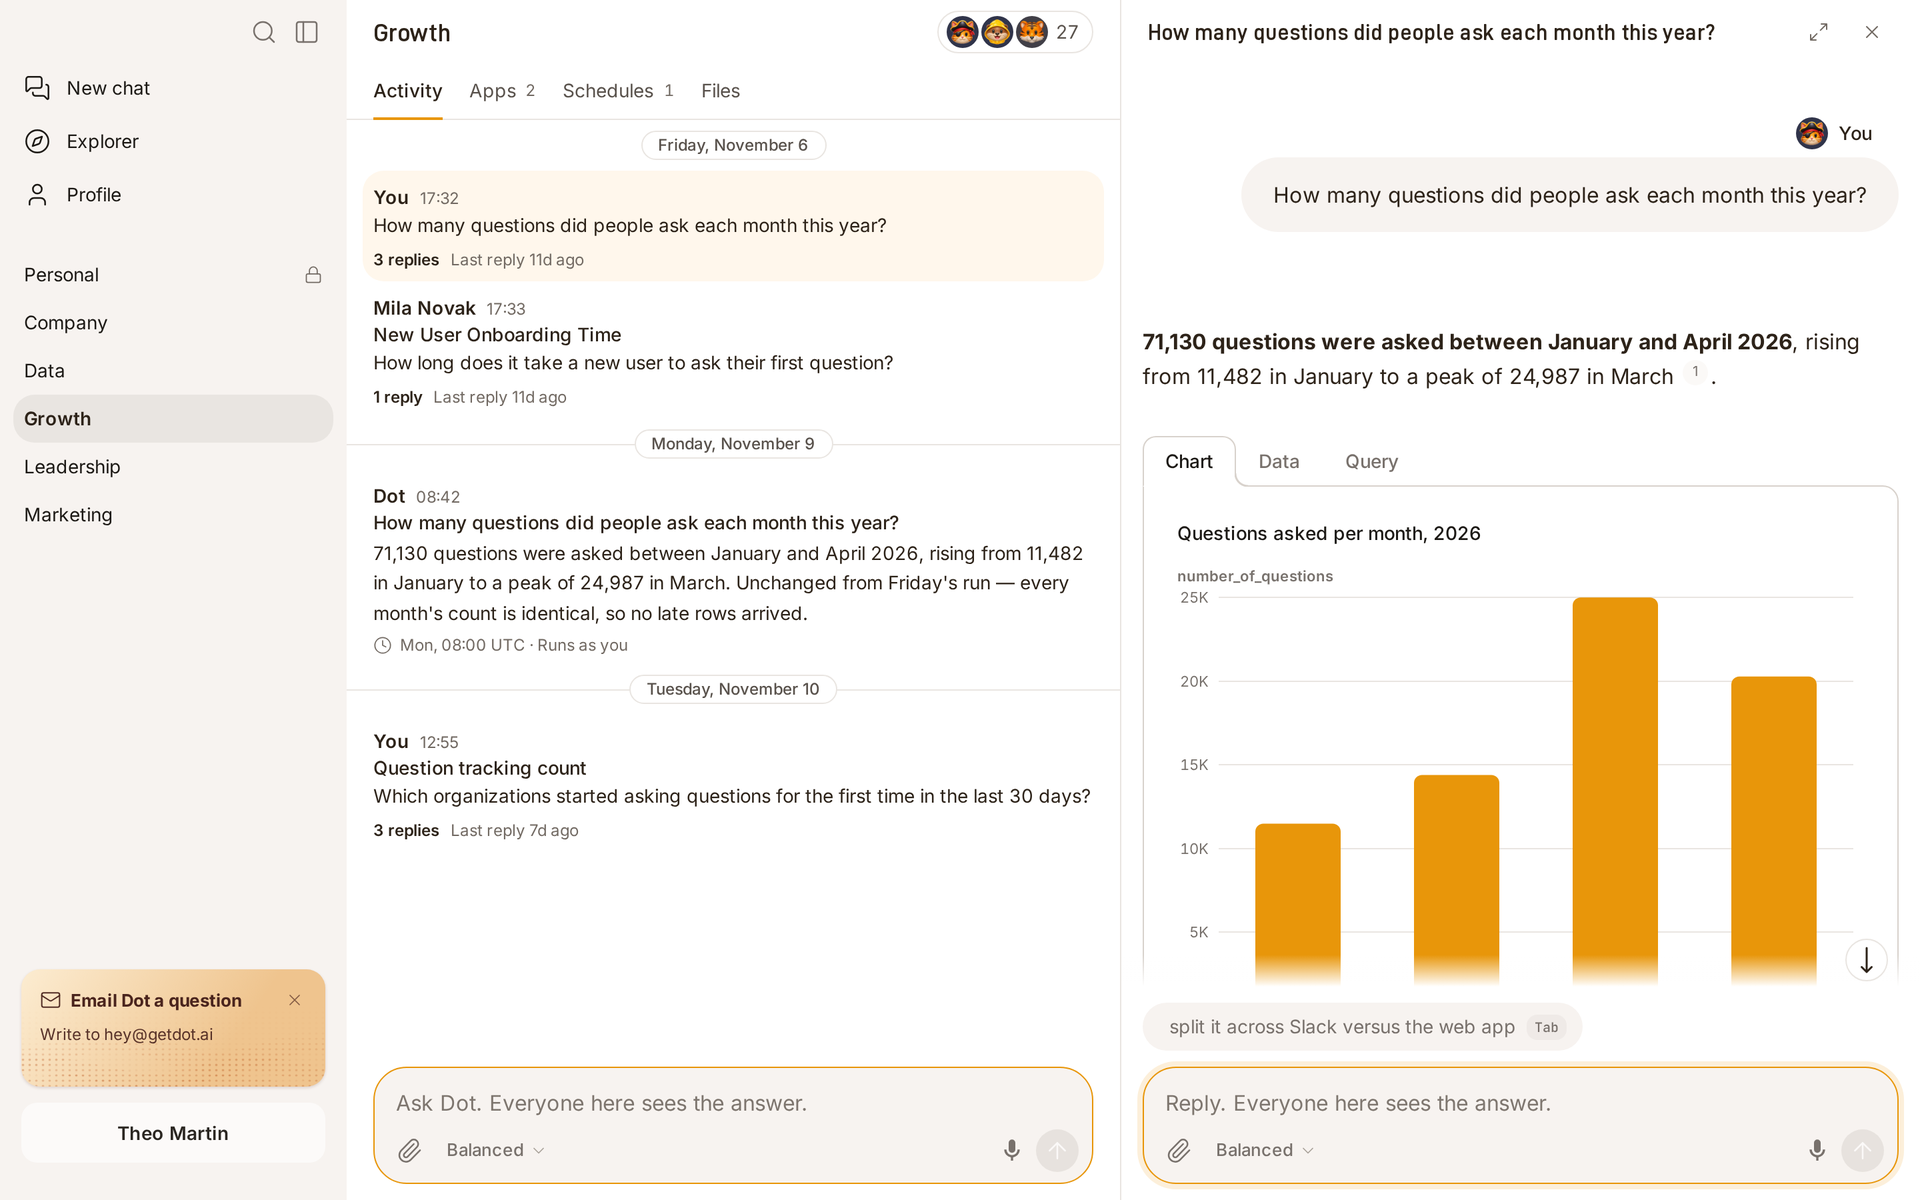
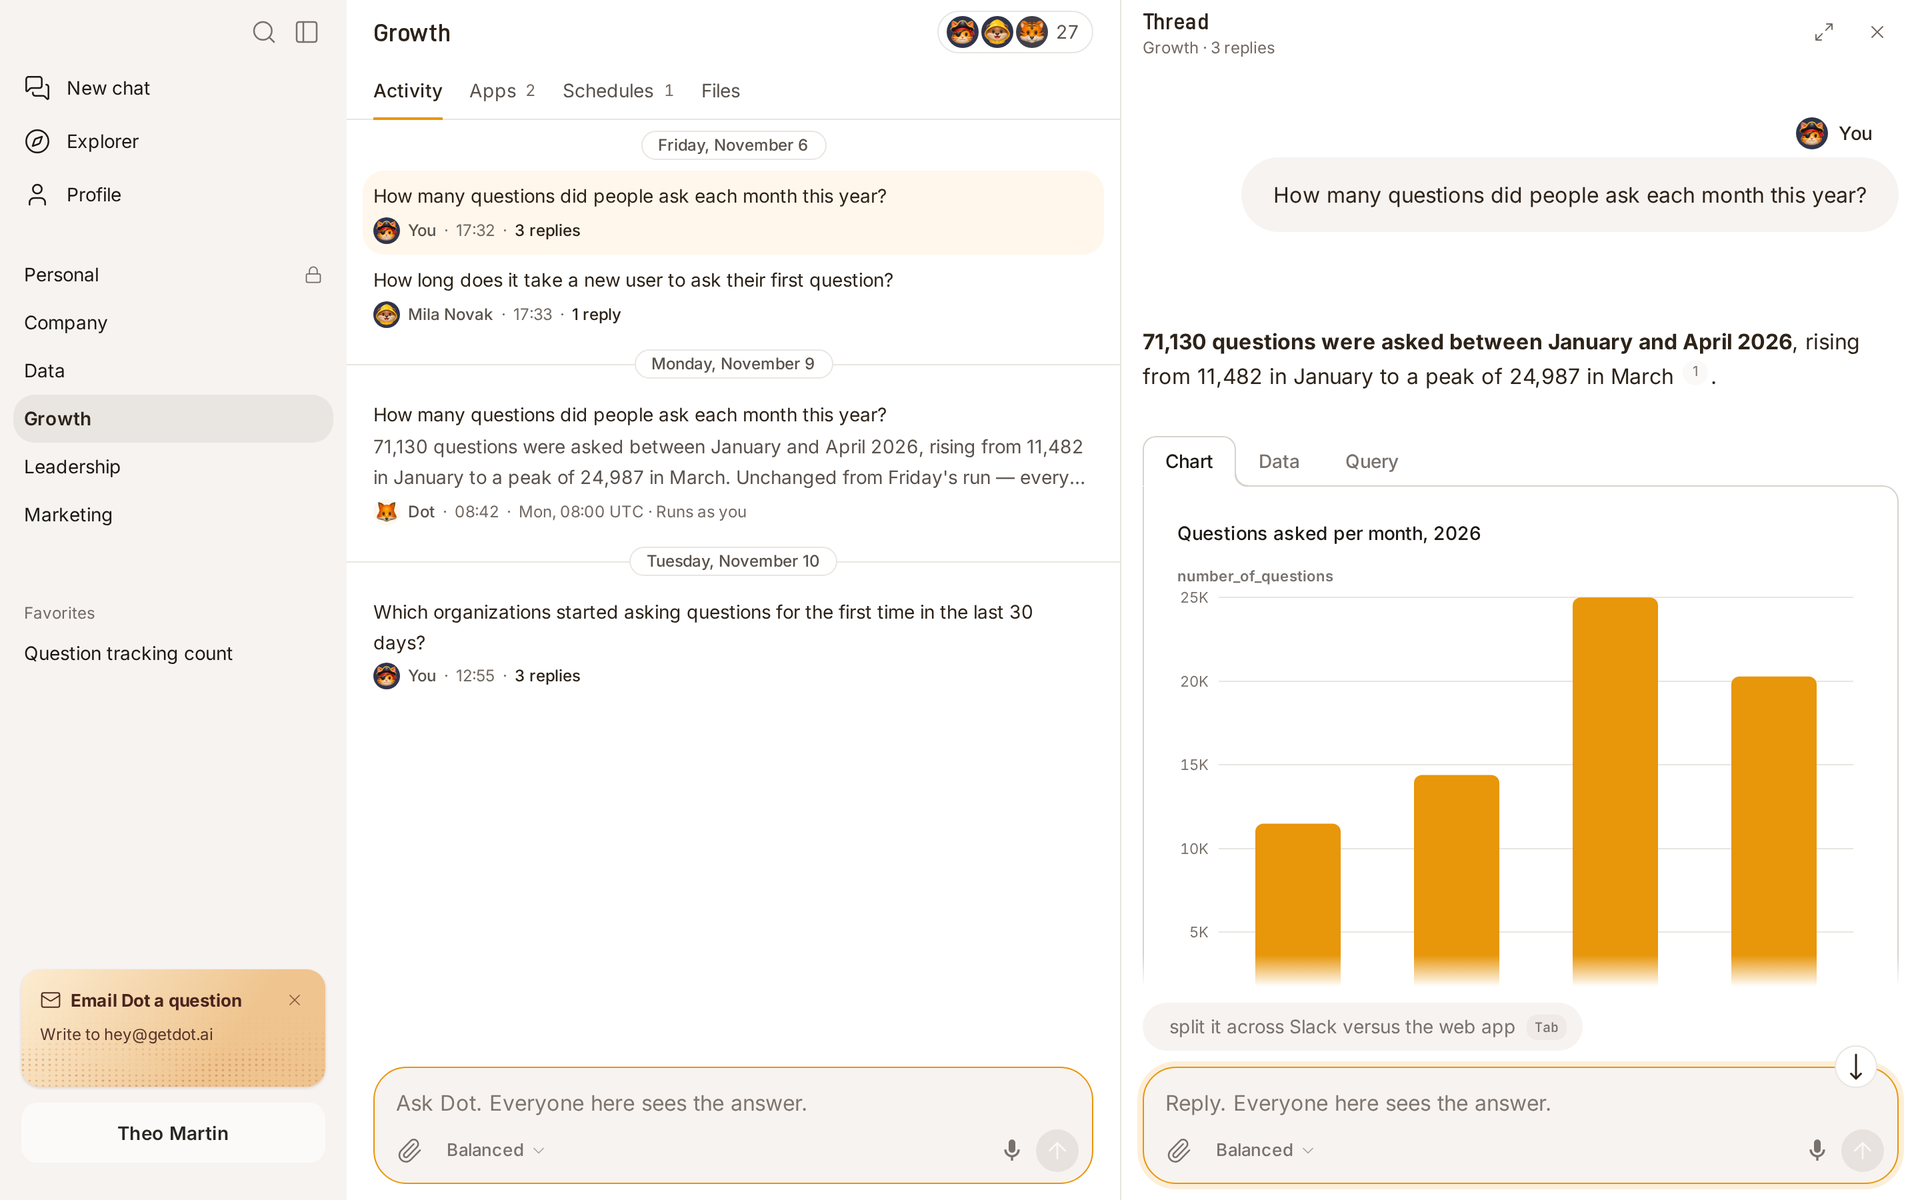
docs: each Explorer tab searches; posts lead with the question

diff --git a/dot/dot/whats-dot/teams.md b/dot/dot/whats-dot/teams.md
@@ -16,12 +16,12 @@ The Explorer lists every place you can open on its **Channels** tab, every app o
 
 To find something:
 
-1. In the sidebar, click **Explorer**.
-2. Type in the search at the top. You can also press **/** to jump to it.
+1. In the sidebar, click **Explorer**, then the tab for what you are looking for.
+2. Type in the tab's search, at the right end of the tabs. You can also press **/** to jump to it.
 
-The search covers all three tabs, and each tab shows how many results it has. Your words stay when you switch tabs or come back from something you opened. A channel or folder you find by its name shows everything in it, and an app is found by its description too. Press **Escape** to clear the search.
+A channel or folder you find by its name shows everything in it, and an app is found by its description too. Press **Escape** to clear the search. To find anything at once, from any page, use the search at the top of the sidebar (⌘K, or Ctrl+K on Windows).
 
-<figure><img src="../../.gitbook/assets/team-explorer-search.png" alt="The Explorer's search with the word gro, its Apps tab showing the apps of the Growth channel"><figcaption><p>One search for channels, apps and schedules.</p></figcaption></figure>
+<figure><img src="../../.gitbook/assets/team-explorer-search.png" alt="The Explorer's Apps tab searched for customer, showing the app whose description mentions customers"><figcaption><p>Each tab has its own search.</p></figcaption></figure>
 
 Admins see the same page with more on it: every channel in the workspace, and other people's personal apps and schedules.
 
@@ -29,7 +29,7 @@ Admins see the same page with more on it: every channel in the workspace, and ot
 
 **Personal** holds your chats that are in no channel, and your own apps and schedules. Only you and admins can open it, unless you share a chat's link. If your admin lets modelers read every chat in History, modelers can open it too.
 
-To ask Dot something only you see, open **Personal** and type in the box at the bottom.
+To ask Dot something only you see, open **Personal** and type in the box at the bottom. Click one of your chats there to open it beside the list, as a thread opens in a channel.
 
 ## Ask Dot in a channel
 
@@ -38,7 +38,7 @@ To ask Dot something only you see, open **Personal** and type in the box at the 
 
 Your question appears in the channel, and its thread opens beside it. Dot answers in the thread, with your own data access, and everyone in the channel sees the answer. To ask a follow-up, use the box in the thread.
 
-Each question in the channel shows who asked it and when. Below it, a line says how many replies the thread has and when the last reply came. Click a question or its replies to open the thread. To open a thread as a page of its own, click the arrows at its top.
+Each question in the channel shows what was asked, and under it who asked, when, and how many replies its thread has. Click a question to open its thread. To open a thread as a page of its own, click the arrows at its top.
 
 <figure><img src="../../.gitbook/assets/team-channel-thread.png" alt="A question's thread open beside the channel, with Dot's answer and a chart"><figcaption><p>A question's thread opens beside the channel.</p></figcaption></figure>
 
@@ -118,7 +118,7 @@ If a teammate asks while you have the chat open, their question and Dot's work a
 
 ## Schedules in a channel
 
-The **Schedules** tab lists the schedules that deliver the channel's chats and apps: how often each runs, whose data access it runs with, and when it runs next. Click one of your schedules to see its place, who it runs as and its past runs; a teammate's schedule opens its thread in the channel. When a schedule runs, Dot posts what it found in the channel. Click the post to see everything it sent.
+The **Schedules** tab lists the schedules that deliver the channel's chats and apps: how often each runs, whose data access it runs with, and when it runs next. Click one of your schedules to see its place, who it runs as and its past runs; a teammate's schedule opens its thread in the channel. When a schedule runs, Dot posts what it found in the channel. Click the post to read everything it sent, beside the channel.
 
 * People who can edit the channel can pause and resume a teammate's schedule from the **⋮** at the end of its row. It keeps running as its owner.
 * Editing a teammate's schedule makes it yours. From then on it runs with your data access, and the editor says so before you save.
